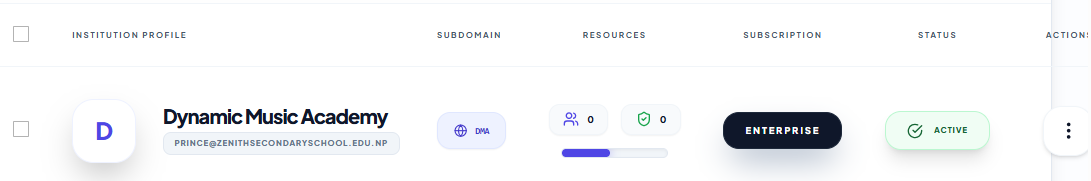
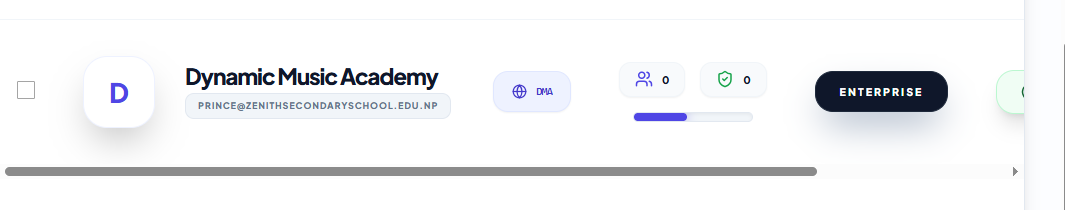
UI Fix: Optimized table layout to fit container without horizontal scroll

diff --git a/app/(dashboard)/super-admin/schools/page.tsx b/app/(dashboard)/super-admin/schools/page.tsx
@@ -196,7 +196,7 @@ export default function SuperAdminSchoolsPage() {
       {/* School List Table */}
       <div className="bg-white rounded-[48px] border border-slate-200 shadow-xl min-h-[400px] pb-96 overflow-hidden">
         <div className="p-10 border-b border-slate-100 flex flex-wrap gap-8 items-center justify-between bg-slate-50/20">
-          <div className="relative flex-1 min-w-[400px]">
+          <div className="relative flex-1 min-w-[300px]">
             <Search className="absolute left-6 top-1/2 -translate-y-1/2 w-6 h-6 text-slate-400" />
             <input 
               type="text" 
@@ -211,11 +211,11 @@ export default function SuperAdminSchoolsPage() {
           </div>
         </div>
 
-        <div className="overflow-x-auto">
-          <table className="w-full text-left border-collapse min-w-[1200px]">
+        <div className="overflow-hidden">
+          <table className="w-full text-left border-collapse table-fixed">
             <thead>
               <tr className="text-xs font-black text-slate-600 uppercase tracking-[0.2em] border-b border-slate-100">
-                <th className="px-6 py-8 w-16 text-center">
+                <th className="px-4 py-8 w-12 text-center">
                    <input 
                     type="checkbox" 
                     className="w-6 h-6 rounded-lg border-slate-300 text-indigo-600 focus:ring-indigo-500 cursor-pointer"
@@ -223,12 +223,12 @@ export default function SuperAdminSchoolsPage() {
                     onChange={toggleSelectAll}
                    />
                 </th>
-                <th className="px-6 py-8">Institution Profile</th>
-                <th className="px-8 py-8">Subdomain</th>
-                <th className="px-8 py-8 text-center">Resources</th>
-                <th className="px-8 py-8 text-center">Subscription</th>
-                <th className="px-8 py-8 text-center">Status</th>
-                <th className="px-12 py-8 text-right">Actions</th>
+                <th className="px-4 py-8 w-1/3">Institution Profile</th>
+                <th className="px-4 py-8 w-32">Subdomain</th>
+                <th className="px-4 py-8 text-center w-40">Resources</th>
+                <th className="px-4 py-8 text-center w-40">Subscription</th>
+                <th className="px-4 py-8 text-center w-32">Status</th>
+                <th className="px-6 py-8 text-right w-24">Actions</th>
               </tr>
             </thead>
             <tbody className="divide-y divide-slate-50">
@@ -242,7 +242,7 @@ export default function SuperAdminSchoolsPage() {
                 </tr>
               ) : filteredSchools.map((school) => (
                 <tr key={school.id} className={`group hover:bg-slate-50 transition-all duration-300 ${selectedIds.includes(school.id) ? 'bg-indigo-50/50' : ''}`}>
-                  <td className="px-10 py-12 text-center">
+                  <td className="px-4 py-10 text-center">
                     <input 
                       type="checkbox" 
                       className="w-6 h-6 rounded-lg border-slate-300 text-indigo-600 focus:ring-indigo-500 cursor-pointer" 
@@ -250,47 +250,47 @@ export default function SuperAdminSchoolsPage() {
                       onChange={() => toggleSelect(school.id)}
                     />
                   </td>
-                  <td className="px-6 py-12">
-                    <div className="flex items-center gap-10">
-                      <div className="w-24 h-24 rounded-[32px] bg-white flex items-center justify-center font-black text-4xl text-indigo-600 shadow-2xl border-2 border-indigo-50 group-hover:scale-110 group-hover:rotate-2 transition-all duration-500">
+                  <td className="px-4 py-10">
+                    <div className="flex items-center gap-6 overflow-hidden">
+                      <div className="w-16 h-16 rounded-[20px] bg-white flex items-center justify-center font-black text-2xl text-indigo-600 shadow-2xl border-2 border-indigo-50 group-hover:scale-110 group-hover:rotate-2 transition-all duration-500 shrink-0">
                         {school.name[0]}
                       </div>
-                      <div className="space-y-2">
-                        <p className="font-black text-slate-900 text-3xl tracking-tighter leading-none mb-1">{school.name}</p>
-                        <div className="flex flex-wrap items-center gap-4">
+                      <div className="space-y-1 min-w-0 overflow-hidden">
+                        <p className="font-black text-slate-900 text-xl tracking-tighter leading-none mb-1 truncate">{school.name}</p>
+                        <div className="flex flex-wrap items-center gap-2">
                             {Number(school.walletBalance) > 0 && (
-                            <p className="text-xs text-green-700 font-black uppercase bg-green-100 px-4 py-2 rounded-xl border border-green-200 shadow-sm">
+                            <p className="text-[10px] text-green-700 font-black uppercase bg-green-100 px-2 py-0.5 rounded-lg border border-green-200 shrink-0">
                                 Credit: रू {Number(school.walletBalance).toLocaleString()}
                             </p>
                             )}
-                            <p className="text-xs text-slate-500 font-black uppercase tracking-widest bg-slate-100 px-4 py-2 rounded-xl border border-slate-200">{school.email || 'NO_EMAIL'}</p>
+                            <p className="text-[10px] text-slate-500 font-black uppercase tracking-widest bg-slate-100 px-2 py-0.5 rounded-lg border border-slate-200 truncate">{school.email || 'NO_EMAIL'}</p>
                         </div>
                       </div>
                     </div>
                   </td>
-                  <td className="px-8 py-12">
-                    <div className="flex items-center gap-3 text-sm font-mono font-black text-indigo-700 bg-indigo-50 px-6 py-4 rounded-[20px] w-fit border-2 border-indigo-100 shadow-sm uppercase tracking-tighter">
-                      <Globe className="w-5 h-5" />
+                  <td className="px-4 py-10">
+                    <div className="flex items-center gap-2 text-[10px] font-mono font-black text-indigo-700 bg-indigo-50 px-3 py-2 rounded-xl w-fit border-2 border-indigo-100 shadow-sm uppercase tracking-tighter shrink-0">
+                      <Globe className="w-4 h-4" />
                       {school.subdomain}
                     </div>
                   </td>
-                  <td className="px-8 py-12 text-center">
-                    <div className="flex flex-col items-center gap-4">
-                       <div className="flex items-center gap-5">
-                          <div className="flex items-center gap-3 text-sm font-black text-slate-900 uppercase bg-slate-50 px-5 py-2.5 rounded-2xl border-2 border-slate-100 shadow-sm">
-                             <Users className="w-6 h-6 text-indigo-600" /> {school._count.students}
+                  <td className="px-4 py-10 text-center">
+                    <div className="flex flex-col items-center gap-3 shrink-0">
+                       <div className="flex items-center gap-3">
+                          <div className="flex items-center gap-2 text-xs font-black text-slate-900 uppercase bg-slate-50 px-3 py-1.5 rounded-lg border-2 border-slate-100 shadow-sm">
+                             <Users className="w-5 h-5 text-indigo-500" /> {school._count.students}
                           </div>
-                          <div className="flex items-center gap-3 text-sm font-black text-slate-900 uppercase bg-slate-50 px-5 py-2.5 rounded-2xl border-2 border-slate-100 shadow-sm">
-                             <ShieldCheck className="w-6 h-6 text-green-600" /> {school._count.staff}
+                          <div className="flex items-center gap-2 text-xs font-black text-slate-900 uppercase bg-slate-50 px-3 py-1.5 rounded-lg border-2 border-slate-100 shadow-sm">
+                             <ShieldCheck className="w-5 h-5 text-green-600" /> {school._count.staff}
                           </div>
                        </div>
-                       <div className="w-full max-w-[160px] h-3.5 bg-slate-100 rounded-full overflow-hidden mt-1 shadow-inner border border-slate-200">
+                       <div className="w-full max-w-[100px] h-2 bg-slate-100 rounded-full overflow-hidden mt-1 shadow-inner border border-slate-200">
                           <div className="bg-indigo-600 h-full w-[45%] rounded-full shadow-[0_0_15px_rgba(79,70,229,0.5)]"></div>
                        </div>
                     </div>
                   </td>
-                  <td className="px-8 py-12 text-center">
-                    <span className={`px-8 py-4 rounded-[24px] text-sm font-black uppercase tracking-[0.2em] shadow-2xl border-2 transition-all duration-300 inline-block ${
+                  <td className="px-4 py-10 text-center">
+                    <span className={`px-4 py-2 rounded-2xl text-[10px] font-black uppercase tracking-[0.1em] shadow-xl border-2 transition-all duration-300 inline-block shrink-0 ${
                       school.plan === 'ENTERPRISE' ? 'bg-slate-950 text-white border-slate-800 shadow-slate-400' :
                       school.plan === 'PRO' ? 'bg-indigo-600 text-white border-indigo-500 shadow-indigo-200' :
                       school.plan === 'BASIC' ? 'bg-blue-50 text-blue-900 border-blue-200 shadow-blue-100' : 'bg-white text-slate-400 border-slate-200 shadow-none'
@@ -298,30 +298,30 @@ export default function SuperAdminSchoolsPage() {
                       {school.plan || 'NONE'}
                     </span>
                   </td>
-                  <td className="px-8 py-12 text-center">
+                  <td className="px-4 py-10 text-center">
                     <button 
                       onClick={() => handleToggleStatus(school.id, school.isActive)}
-                      className={`inline-flex items-center gap-4 px-8 py-4 rounded-[24px] text-xs font-black uppercase tracking-widest transition-all shadow-xl border-2 hover:-translate-y-1 active:translate-y-0 ${
+                      className={`inline-flex items-center gap-3 px-4 py-2 rounded-2xl text-[10px] font-black uppercase tracking-widest transition-all shadow-xl border-2 hover:-translate-y-1 active:translate-y-0 shrink-0 ${
                         school.isActive ? 'bg-green-50 text-green-800 border-green-200 hover:bg-green-100 hover:shadow-green-200' : 'bg-red-50 text-red-800 border-red-200 hover:bg-red-100 hover:shadow-red-200'
                       }`}
                     >
                       {school.isActive ? (
                         <>
-                          <CheckCircle className="w-6 h-6" /> Active
+                          <CheckCircle className="w-4 h-4" /> Active
                         </>
                       ) : (
                         <>
-                          <XCircle className="w-6 h-6" /> Suspended
+                          <XCircle className="w-4 h-4" /> Suspended
                         </>
                       )}
                     </button>
                   </td>
-                  <td className="px-12 py-12 text-right relative">
+                  <td className="px-6 py-10 text-right relative">
                     <button 
                       onClick={() => setOpenMenuId(openMenuId === school.id ? null : school.id)}
-                      className="p-5 hover:bg-slate-200 rounded-[28px] transition-all inline-flex items-center justify-center border-2 border-slate-100 hover:border-slate-300 shadow-md bg-white text-slate-900"
+                      className="p-3 hover:bg-slate-200 rounded-[20px] transition-all inline-flex items-center justify-center border-2 border-slate-100 hover:border-slate-300 shadow-md bg-white text-slate-900"
                     >
-                      <MoreVertical className="w-8 h-8" />
+                      <MoreVertical className="w-7 h-7" />
                     </button>
                     
                     {openMenuId === school.id && (
@@ -335,7 +335,7 @@ export default function SuperAdminSchoolsPage() {
                             <button onClick={() => handleToggleStatus(school.id, school.isActive)} className="w-full flex items-center gap-4 px-6 py-4 text-xs font-black uppercase tracking-widest text-slate-700 hover:bg-indigo-50 hover:text-indigo-700 rounded-[20px] transition-all">
                                <Zap className="w-5 h-5 opacity-40" /> {school.isActive ? 'Suspend Access' : 'Activate Access'}
                             </button>
-                            <Link href="/super-admin/billing" className="w-full flex items-center gap-4 px-6 py-4 text-xs font-black uppercase tracking-widest text-slate-700 hover:bg-indigo-50 hover:text-indigo-600 rounded-[20px] transition-all">
+                            <Link href="/super-admin/billing" className="w-full flex items-center gap-4 px-6 py-4 text-xs font-black uppercase tracking-widest text-slate-700 hover:bg-indigo-50 hover:text-indigo-700 rounded-[20px] transition-all">
                                <CreditCard className="w-5 h-5 opacity-40" /> Revenue Terminal
                             </Link>
                             <div className="h-[2px] bg-slate-50 mx-4 my-2"></div>
